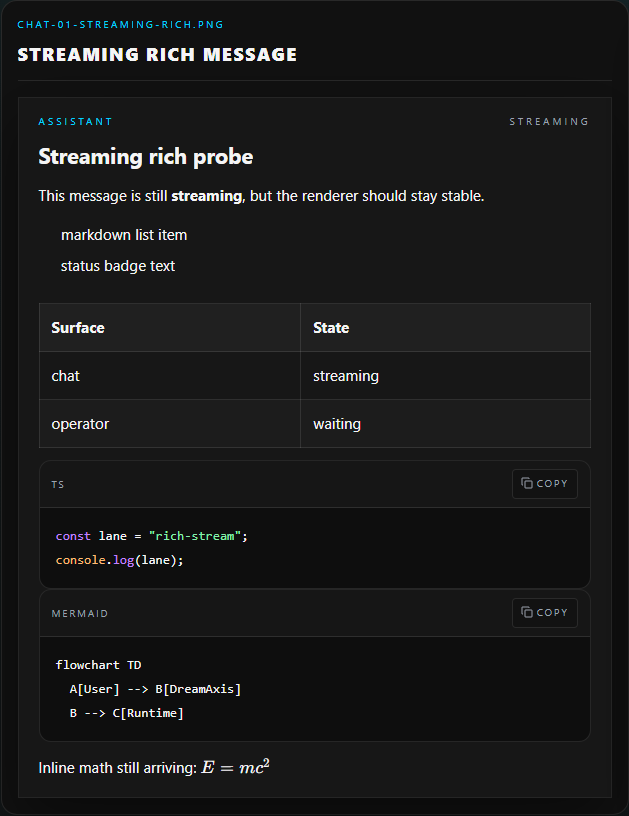
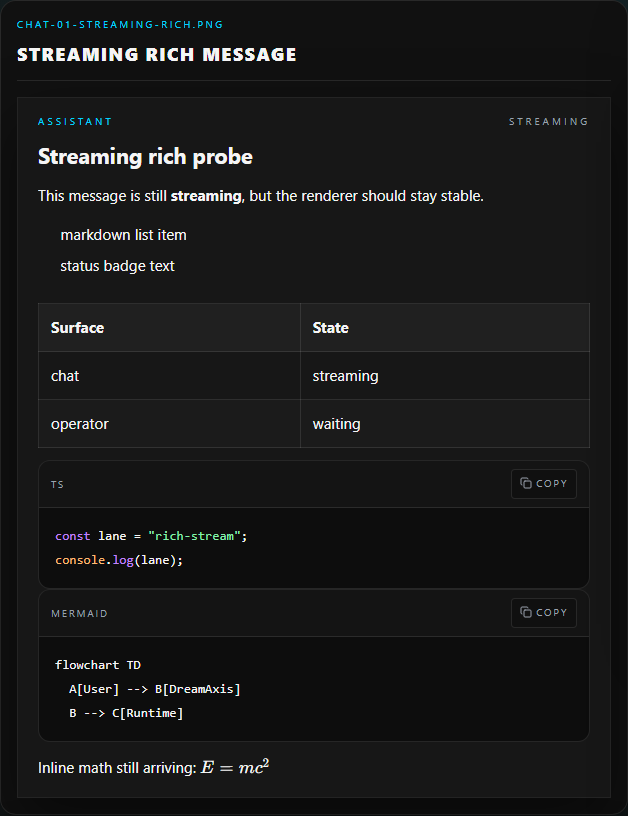
fix(ci): unblock runtime and visual workflows (#8)
* fix(ci): unblock runtime and visual workflows

* fix(ci): avoid powershell pid variable collision

* fix(ci): tolerate detached web process during probe

* fix(ci): keep acceptance server alive in one step

* fix(web): stabilize rich text acceptance targets

* fix(web): align rich text chat baselines

---------

diff --git a/apps/web/components/acceptance/rich-text-v1-screen.tsx b/apps/web/components/acceptance/rich-text-v1-screen.tsx
@@ -3,6 +3,7 @@
 import { PanelCard } from "@/components/cards/panel-card";
 import { StreamMessage } from "@/components/chat/stream-message";
 import { RichContentRenderer } from "@/components/rich-content/rich-content-renderer";
+import { cn } from "@/lib/utils";
 
 type RichTextAcceptanceFixtures = {
   chatStreaming: string;
@@ -19,18 +20,51 @@ type RichTextAcceptanceFixtures = {
   runtimeRawLog: string;
 };
 
-function Shot({ shot, title, children }: { shot: string; title: string; children: React.ReactNode }) {
-  return (
-    <section
-      id={shot}
-      data-shot={shot}
-      className="rounded-2xl border border-white/10 bg-[#111111] p-4 shadow-[0_24px_60px_rgba(0,0,0,0.35)]"
-    >
+const shotFrameClassName = "rounded-2xl border border-white/10 bg-[#111111] p-4 shadow-[0_24px_60px_rgba(0,0,0,0.35)]";
+
+function Shot({
+  shot,
+  title,
+  children,
+  captureTarget = false,
+  targetClassName,
+}: {
+  shot: string;
+  title: string;
+  children: React.ReactNode;
+  captureTarget?: boolean;
+  targetClassName?: string;
+}) {
+  const body = (
+    <>
       <div className="mb-4 border-b border-white/10 pb-3">
         <p className="text-[10px] uppercase tracking-[0.24em] text-signal">{shot}.png</p>
         <h2 className="mt-2 text-lg font-black uppercase tracking-[0.08em] text-ink">{title}</h2>
       </div>
       {children}
+    </>
+  );
+
+  if (captureTarget) {
+    return (
+      <section id={shot} className="flex justify-center">
+        <div
+          data-shot-target={shot}
+          className={cn(shotFrameClassName, "w-[628px] max-w-[628px]", targetClassName)}
+        >
+          {body}
+        </div>
+      </section>
+    );
+  }
+
+  return (
+    <section
+      id={shot}
+      data-shot={shot}
+      className={cn(shotFrameClassName, targetClassName)}
+    >
+      {body}
     </section>
   );
 }
@@ -54,36 +88,36 @@ export function RichTextV1AcceptanceScreen({ fixtures }: { fixtures: RichTextAcc
         </header>
 
         <div className="grid gap-6 xl:grid-cols-2">
-          <Shot shot="chat-01-streaming-rich" title="Streaming rich message">
+          <Shot shot="chat-01-streaming-rich" title="Streaming rich message" captureTarget>
             <StreamMessage role="assistant" content={fixtures.chatStreaming} pending />
           </Shot>
 
-          <Shot shot="chat-02-markdown-basics" title="Markdown basics">
+          <Shot shot="chat-02-markdown-basics" title="Markdown basics" captureTarget>
             <StreamMessage role="assistant" content={fixtures.chatMarkdown} />
           </Shot>
 
-          <Shot shot="chat-03-code-highlight" title="Code highlight coverage">
+          <Shot shot="chat-03-code-highlight" title="Code highlight coverage" captureTarget>
             <StreamMessage role="assistant" content={fixtures.chatCode} />
           </Shot>
 
-          <Shot shot="chat-04-math-katex-all-syntax" title="Math / KaTeX coverage">
+          <Shot shot="chat-04-math-katex-all-syntax" title="Math / KaTeX coverage" captureTarget>
             <StreamMessage role="assistant" content={fixtures.chatMath} />
           </Shot>
 
-          <Shot shot="chat-05-mermaid-success" title="Mermaid success">
+          <Shot shot="chat-05-mermaid-success" title="Mermaid success" captureTarget>
             <StreamMessage role="assistant" content={fixtures.chatMermaidOk} />
           </Shot>
 
-          <Shot shot="chat-06-mermaid-fallback-with-src" title="Mermaid fallback with source">
+          <Shot shot="chat-06-mermaid-fallback-with-src" title="Mermaid fallback with source" captureTarget>
             <StreamMessage role="assistant" content={fixtures.chatMermaidBad} />
           </Shot>
 
-          <Shot shot="chat-07-html-escaped" title="Unsafe HTML stays escaped">
+          <Shot shot="chat-07-html-escaped" title="Unsafe HTML stays escaped" captureTarget>
             <StreamMessage role="assistant" content={fixtures.chatHtmlEscape} />
           </Shot>
 
-          <Shot shot="chat-08-narrow-viewport" title="Narrow viewport (375px)">
-            <div className="w-[375px] max-w-full">
+          <Shot shot="chat-08-narrow-viewport" title="Narrow viewport (375px)" captureTarget>
+            <div className="mx-auto w-[375px] max-w-full">
               <StreamMessage role="assistant" content={narrowViewportContent} />
             </div>
           </Shot>
